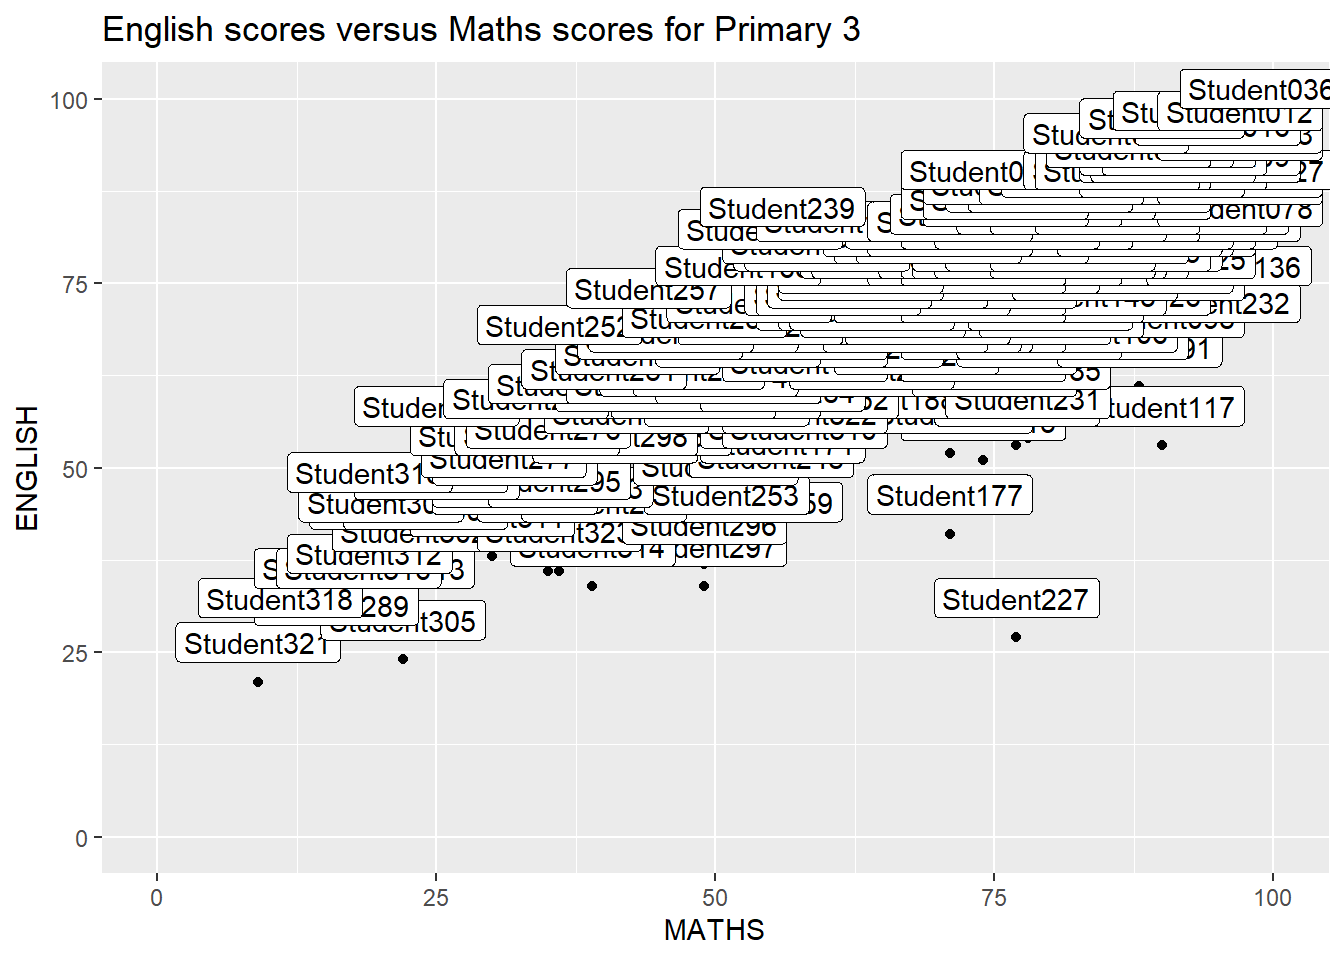
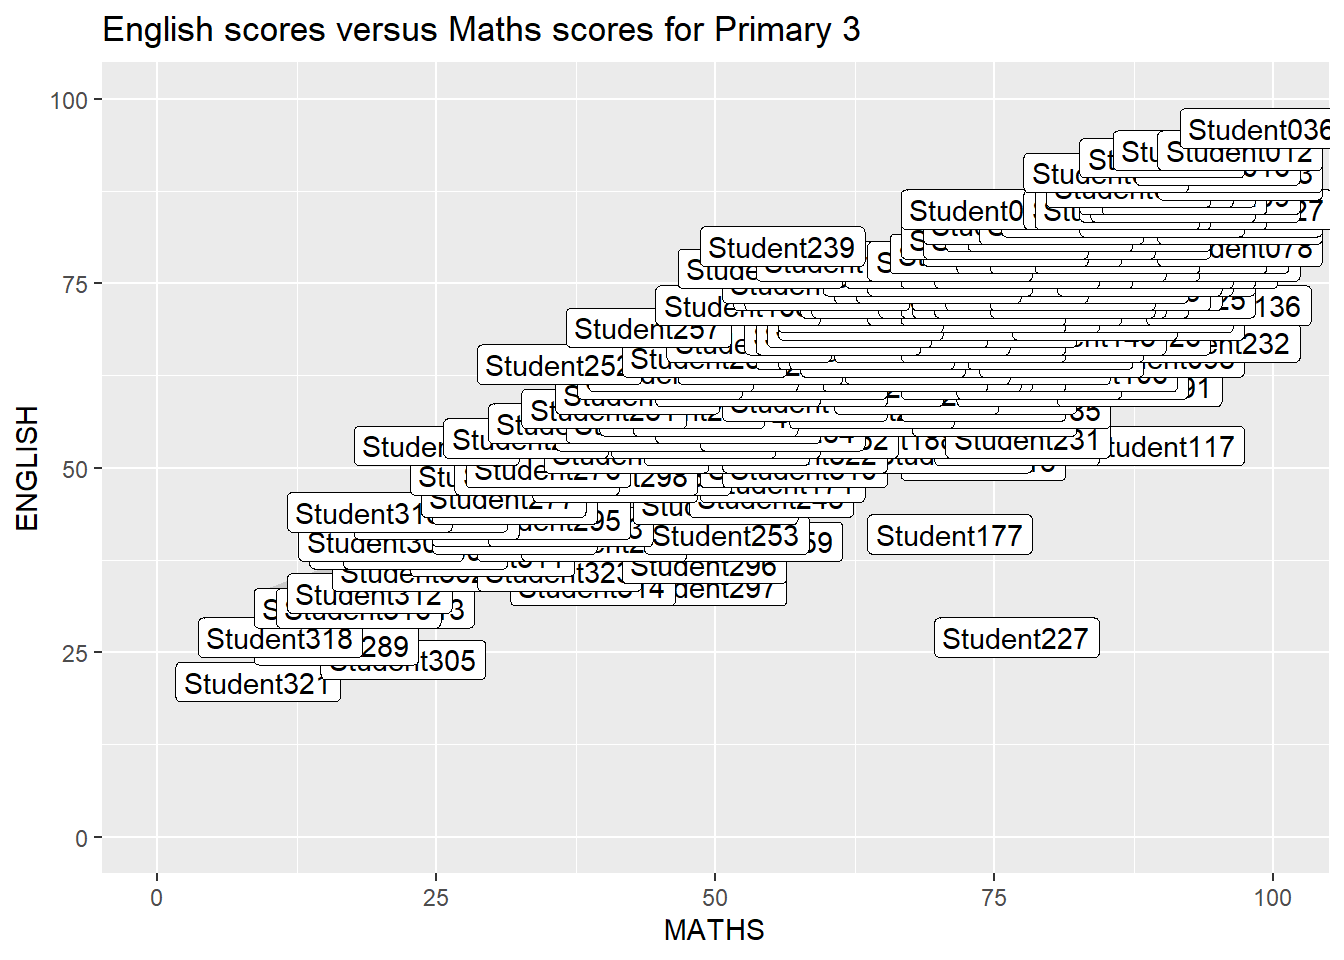
commit

Changed region(s): [[0.125, 0.0625, 1.0, 0.75]]

diff --git a/_site/Hands-on Exercise/Hands-on_Ex02/Hands-on_Ex02.html b/_site/Hands-on Exercise/Hands-on_Ex02/Hands-on_Ex02.html
@@ -403,8 +403,8 @@ $ SCIENCE &lt;dbl&gt; 15, 16, 16, 31, 25, 16, 25, 27, 15, 37, 42, 22, 32, 36, 35
 <span id="cb5-5"><a href="#cb5-5" aria-hidden="true" tabindex="-1"></a>  <span class="fu">geom_smooth</span>(<span class="at">method=</span>lm, </span>
 <span id="cb5-6"><a href="#cb5-6" aria-hidden="true" tabindex="-1"></a>              <span class="at">linewidth=</span><span class="fl">0.5</span>) <span class="sc">+</span>  </span>
 <span id="cb5-7"><a href="#cb5-7" aria-hidden="true" tabindex="-1"></a>  <span class="fu">geom_label</span>(<span class="fu">aes</span>(<span class="at">label =</span> ID), </span>
-<span id="cb5-8"><a href="#cb5-8" aria-hidden="true" tabindex="-1"></a>             <span class="at">hjust =</span> .<span class="dv">5</span>, </span>
-<span id="cb5-9"><a href="#cb5-9" aria-hidden="true" tabindex="-1"></a>             <span class="at">vjust =</span> <span class="sc">-</span>.<span class="dv">5</span>) <span class="sc">+</span></span>
+<span id="cb5-8"><a href="#cb5-8" aria-hidden="true" tabindex="-1"></a>             <span class="at">hjust =</span> <span class="fl">0.5</span>, </span>
+<span id="cb5-9"><a href="#cb5-9" aria-hidden="true" tabindex="-1"></a>             <span class="at">vjust =</span> <span class="fl">0.5</span>) <span class="sc">+</span></span>
 <span id="cb5-10"><a href="#cb5-10" aria-hidden="true" tabindex="-1"></a>  <span class="fu">coord_cartesian</span>(<span class="at">xlim=</span><span class="fu">c</span>(<span class="dv">0</span>,<span class="dv">100</span>),</span>
 <span id="cb5-11"><a href="#cb5-11" aria-hidden="true" tabindex="-1"></a>                  <span class="at">ylim=</span><span class="fu">c</span>(<span class="dv">0</span>,<span class="dv">100</span>)) <span class="sc">+</span></span>
 <span id="cb5-12"><a href="#cb5-12" aria-hidden="true" tabindex="-1"></a>  <span class="fu">ggtitle</span>(<span class="st">"English scores versus Maths scores for Primary 3"</span>)</span></code><button title="Copy to Clipboard" class="code-copy-button"><i class="bi"></i></button></pre></div>
